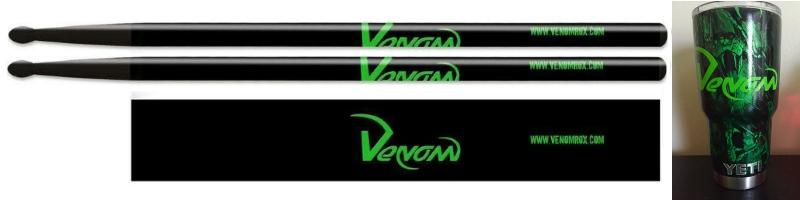
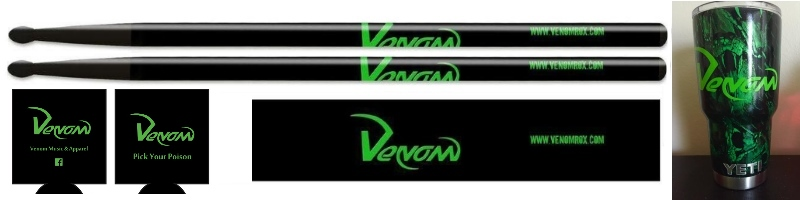
Added huggers to store and added pics

Changed region(s): [[0.0, 0.42, 0.3125, 0.99]]

diff --git a/ts/venom.js b/ts/venom.js
@@ -265,6 +265,18 @@ var Venom;
             return YetiCup;
         }());
         Items.YetiCup = YetiCup;
+        var Hugger = (function () {
+            function Hugger() {
+                this.itemCode = "HUGGER001";
+                this.itemName = "Hugger";
+                this.description = "Keep your drinks cold at the next Venom show with this cool hugger";
+                this.category = Category.Accessories;
+                this.price = 5;
+                this.paypalID = "EBXTKT5DLZ43Y";
+            }
+            return Hugger;
+        }());
+        Items.Hugger = Hugger;
     })(Items = Venom.Items || (Venom.Items = {}));
     var OrderSheet = (function () {
         function OrderSheet(element) {

diff --git a/ts/venom.ts b/ts/venom.ts
@@ -323,6 +323,16 @@
             public price: number = 80;
             public paypalID: string = "MLKTFJ3SPGHYL";
         }
+
+        export class Hugger {
+
+            public itemCode: string = "HUGGER001";
+            public itemName: string = "Hugger";
+            public description: string = "Keep your drinks cold at the next Venom show with this cool hugger";
+            public category: Category = Category.Accessories;
+            public price: number = 5;
+            public paypalID: string = "EBXTKT5DLZ43Y";
+        }
     }
 
     export class OrderSheet {

diff --git a/index.html b/index.html
@@ -69,6 +69,9 @@
 			<li>
 				<img src="./images/content/photo.007.jpg" />
 			</li>
+			<li>
+				<img src="./images/content/photo.008.jpg" />
+			</li>
 		</ul>
 	</div>
 
